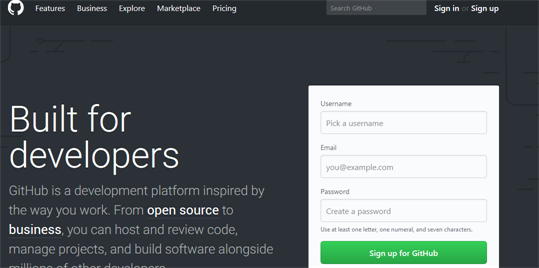
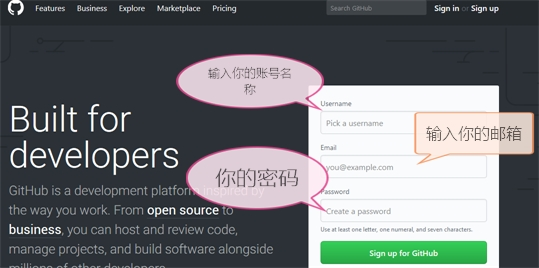
Site updated: 2017-09-12 22:49:12

diff --git a/2017/09/13/github/index.html b/2017/09/13/github/index.html
@@ -8,15 +8,20 @@
   <link rel="dns-prefetch" href="https://joanne-q.github.io">
   <title>github的基础1 | Joanne的博客</title>
   <meta name="viewport" content="width=device-width, initial-scale=1, maximum-scale=1">
-  <meta name="keywords" content="笔记">
+  <meta name="description" content="github账号">
+<meta name="keywords" content="笔记">
 <meta property="og:type" content="article">
 <meta property="og:title" content="github的基础1">
 <meta property="og:url" content="https://joanne-q.github.io/2017/09/13/github/index.html">
 <meta property="og:site_name" content="Joanne的博客">
+<meta property="og:description" content="github账号">
 <meta property="og:locale" content="zh-CN">
-<meta property="og:updated_time" content="2017-09-12T13:49:53.758Z">
+<meta property="og:image" content="https://github.com/Joanne-q/Joanne-q.github.io/blob/master/img/github/zhuce01.jpg?raw=true">
+<meta property="og:updated_time" content="2017-09-12T14:49:02.762Z">
 <meta name="twitter:card" content="summary">
 <meta name="twitter:title" content="github的基础1">
+<meta name="twitter:description" content="github账号">
+<meta name="twitter:image" content="https://github.com/Joanne-q/Joanne-q.github.io/blob/master/img/github/zhuce01.jpg?raw=true">
   
     <link rel="alternative" href="/atom.xml" title="Joanne的博客" type="application/atom+xml">
   
@@ -160,7 +165,9 @@
     
     <div class="article-entry" itemprop="articleBody">
       
-        
+        <p><br></p>
+<h2 id="github账号"><a href="#github账号" class="headerlink" title="github账号"></a>github账号</h2><p><img src="https://github.com/Joanne-q/Joanne-q.github.io/blob/master/img/github/zhuce01.jpg?raw=true" alt="">  </p>
+
       
 
       
@@ -314,7 +321,7 @@
                 </span>
                 <span class="tooltip-content">
                     <div class="toc-article">
-                    目录，不存在的…
+                    <ol class="toc"><li class="toc-item toc-level-2"><a class="toc-link" href="#github账号"><span class="toc-number">1.</span> <span class="toc-text">github账号</span></a></li></ol>
                     </div>
                 </span>
             </div>

diff --git a/index.html b/index.html
@@ -160,7 +160,9 @@
     
     <div class="article-entry" itemprop="articleBody">
       
-        
+        <p><br></p>
+<h2 id="github账号"><a href="#github账号" class="headerlink" title="github账号"></a>github账号</h2><p><img src="https://github.com/Joanne-q/Joanne-q.github.io/blob/master/img/github/zhuce01.jpg?raw=true" alt="">  </p>
+
       
 
       
